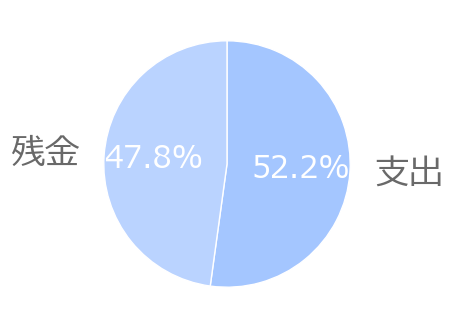
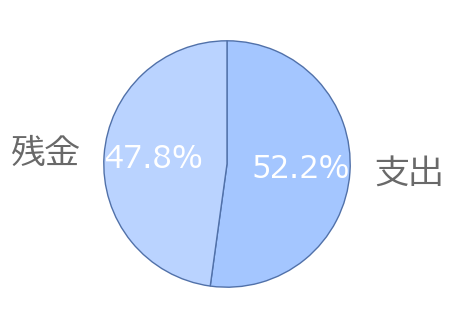
save

diff --git a/apps/top/static/css/top.css b/apps/top/static/css/top.css
@@ -169,9 +169,9 @@ p {
 
 
 
-h4 {
+h2 {
   color : dimgray;/*文字色*/
-  /* border: solid 3px dimgray;線色 */
+  border: solid 2px dimgray;
   padding: 0.1em;/*文字周りの余白*/
   /* border-radius: 0.5em;角丸 */
   text-align:center;
@@ -183,7 +183,7 @@ h4 {
 }
 
 h1 {
-  color:  #A4C6FF;/*文字色*/
+  color:  dimgray;/*文字色*/
   text-align:center;
   width: 17rem;
   /* ブロックごと真ん中にするとき */
@@ -196,6 +196,7 @@ h1 {
 お知らせボタン */
 
 .dli-mail {
+  font-size: 2.2rem;
   display: inline-block;
   vertical-align: middle;
   color:  dimgray;
@@ -203,10 +204,12 @@ h1 {
   position: relative;
   width: 1.06667em;
   height: 0.8em;
-  border: 0.1em solid currentColor;
+  border: 0.1em solid dimgray;
   border-radius: 0.1em;
   box-sizing: content-box;
   overflow: hidden;
+  top: -6px;
+  right: var(--toggler-offset-left);
 }
 
 .dli-mail::before {
@@ -216,12 +219,13 @@ h1 {
   top: 0;
   width: 0.75425em;
   height: 0.75425em;
-  border: 0.1em solid currentColor;
+  border: 0.1em solid dimgray;
   border-top-color: transparent;
   border-right-color: transparent;
   border-radius: 0 0 0 0.1em;
   box-sizing: content-box;
   transform: translate(-50%, -50%) rotate(-45deg) skew(10deg, 10deg);
+  
 }
 
 .notify-btn{
@@ -229,10 +233,14 @@ h1 {
                 text-decoration: none;
                 padding: 9px;
                 background: #fff;
-                border: 1.5px solid dimgray;
+                /* border: 1.5px solid dimgray; */
                 width: 45px;
                 margin-left: auto;
                 border-radius: 0.5em;/*角丸*/
+                position: fixed;
+                top: var(--toggler-offset-top);
+                right: var(--toggler-offset-left);
+
 }
 .notify-btn:hover{
   background: #fff;

diff --git a/apps/top/templates/top.html b/apps/top/templates/top.html
@@ -42,15 +42,15 @@
       </div>
     <div>
           <!--今週の残金表示-->
-        <article class=""><br>
-          <h4>今週の残金</h4>
+        <article class=""><br><br>
+          <h2>今週の残金</h2>
           <h1>{{ balance }}円</h1>
           <!--残金のグラフ表示-->
           <p><img src="{{ filename  }}" alt="残金のグラフ" width="290"></p>
         </article>
         
         <article class="">
-          <h4>貯金の達成度</h4>
+          <h2>貯金の達成度</h2>
           <!--貯金の達成度の表示-->
           <h1>{{ current_amount }}%</h1>
         </article>

diff --git a/apps/notification/static/css/notification.css b/apps/notification/static/css/notification.css
@@ -28,8 +28,8 @@ body {
 }
 
 h1 {
-  color: #A4C6FF;/*文字色*/
-  border: solid 3px #A4C6FF;/*線色*/
+  color: dimgray;/*文字色*/
+  border: solid 1.5px dimgray;/*線色*/
   padding: 0.1em;/*文字周りの余白*/
   border-radius: 0.5em;/*角丸*/
   text-align:center;

diff --git a/apps/top/views.py b/apps/top/views.py
@@ -113,7 +113,7 @@ def PieChart(balance, save_path):
         startangle=90, 
         counterclock=False,
         colors=colors,          
-        wedgeprops={'edgecolor': 'white'},
+        wedgeprops={'edgecolor': "#5171A9FF"},
         labeldistance=1.2,      # ラベルの位置
     )
 
